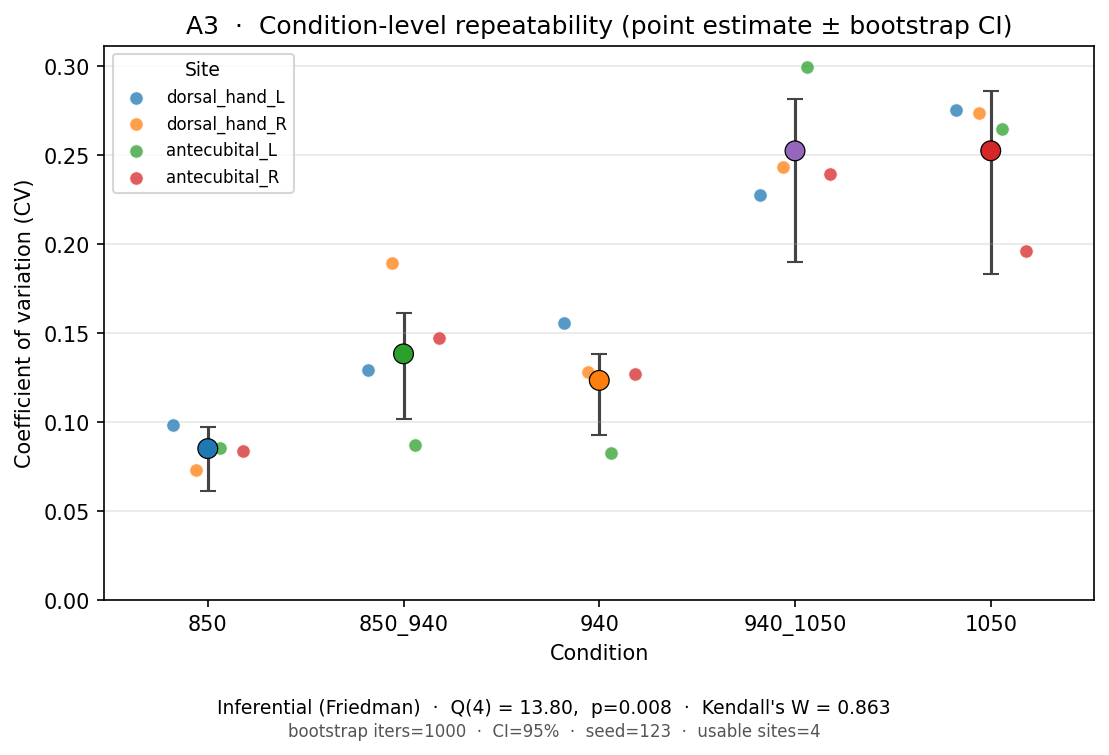
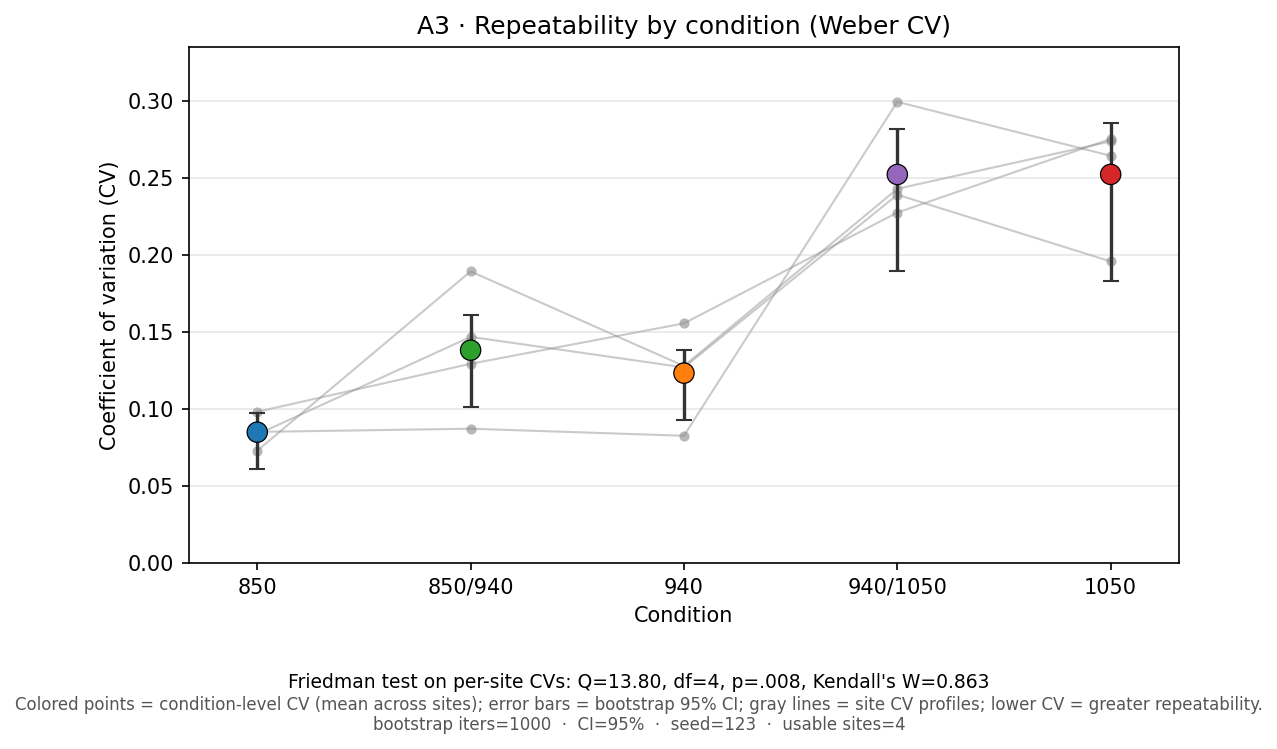
Refactor A3 plotting logic: enhance formatting functions, improve error handling, and update visualization details for clarity

diff --git a/plots/a3.py b/plots/a3.py
@@ -8,20 +8,18 @@ import numpy as np
 import pandas as pd
 
 from config import (
+    CONDITION_DISPLAY_LABELS,
     CONDITION_ORDER,
     CONDITION_PALETTE,
     DPI,
     FIGSIZE,
     SITE_ORDER,
-    SITE_PALETTE,
     fmt_num,
-    fmt_p,
 )
 from loader import bootstrap_cis_df, cv_matrix_df
 
 
 _TOL = 1e-9
-_SITE_X_OFFSETS = np.linspace(-0.18, 0.18, len(SITE_ORDER))
 
 
 def _as_float(value: object, label: str) -> float:
@@ -30,20 +28,47 @@ def _as_float(value: object, label: str) -> float:
     return float(value)
 
 
+def _fmt_trimmed(x: float, digits: int = 3) -> str:
+    text = f"{float(x):.{digits}f}"
+    if text.startswith("0."):
+        return text[1:]
+    if text.startswith("-0."):
+        return "-" + text[2:]
+    return text
+
+
+def _fmt_p_compact(p: float) -> str:
+    if p is None:
+        return "p=n/a"
+    if p < 0.001:
+        return "p<.001"
+    return f"p={_fmt_trimmed(p)}"
+
+
 def _stat_line(a3: dict) -> str:
     mode = a3["a3_mode"]
     if mode == "inferential":
         fr = a3["friedman"]
         return (
-            f"Inferential (Friedman)  ·  Q({fr['dof']:g}) = "
-            f"{fmt_num(fr['Q'], 2)},  {fmt_p(fr['p'])}  ·  "
-            f"Kendall's W = {fmt_num(fr['kendalls_w'], 3)}"
+            "Friedman test on per-site CVs: "
+            f"Q={fmt_num(fr['Q'], 2)}, df={fr['dof']:g}, "
+            f"{_fmt_p_compact(fr['p'])}, Kendall's W={fmt_num(fr['kendalls_w'], 3)}"
         )
     reason = a3.get("fallback_reason") or "unspecified"
     return f"Descriptive (fallback: {reason})"
 
 
 def _provenance_line(a3: dict) -> str:
+    ci_level = int(a3["bootstrap"]["ci"] * 100)
+    return (
+        "Colored points = condition-level CV (mean across sites); "
+        f"error bars = bootstrap {ci_level}% CI; "
+        "gray lines = site CV profiles; "
+        "lower CV = greater repeatability."
+    )
+
+
+def _metadata_line(a3: dict) -> str:
     bs = a3["bootstrap"]
     bits = [
         f"bootstrap iters={bs['iterations']}",
@@ -62,16 +87,97 @@ def _per_condition_cv_df(per_condition_cv: list) -> pd.DataFrame:
     return df.reindex(CONDITION_ORDER)
 
 
+def _condition_labels() -> list[str]:
+    missing = [c for c in CONDITION_ORDER if c not in CONDITION_DISPLAY_LABELS]
+    if missing:
+        raise ValueError(f"Missing A3 condition display labels: {missing}")
+    return [CONDITION_DISPLAY_LABELS[c] for c in CONDITION_ORDER]
+
+
+def _require_columns(df: pd.DataFrame, columns: list[str], source: str) -> None:
+    missing = [c for c in columns if c not in df.columns]
+    if missing:
+        raise ValueError(f"{source} missing required column(s): {missing}")
+
+
+def _require_complete_inferential_inputs(
+    point_df: pd.DataFrame,
+    ci_df: pd.DataFrame,
+    cv_matrix: pd.DataFrame,
+) -> None:
+    expected_index = list(CONDITION_ORDER)
+    if list(point_df.index) != expected_index:
+        raise ValueError(
+            "A3 per_condition_cv is not aligned to CONDITION_ORDER: "
+            f"{list(point_df.index)}"
+        )
+    if list(ci_df.index) != expected_index:
+        raise ValueError(
+            "A3 bootstrap_cis is not aligned to CONDITION_ORDER: "
+            f"{list(ci_df.index)}"
+        )
+    if list(cv_matrix.columns) != expected_index:
+        raise ValueError(
+            "A3 cv_matrix columns are not aligned to CONDITION_ORDER: "
+            f"{list(cv_matrix.columns)}"
+        )
+    if list(cv_matrix.index) != list(SITE_ORDER):
+        raise ValueError(
+            "A3 cv_matrix rows are not aligned to SITE_ORDER: "
+            f"{list(cv_matrix.index)}"
+        )
+
+    summary_values = point_df["cv_point_estimate"].to_numpy(dtype=float)
+    ci_values = ci_df[["cv_point_estimate", "ci_low", "ci_high"]].to_numpy(dtype=float)
+    site_values = cv_matrix.to_numpy(dtype=float)
+    if not np.isfinite(summary_values).all():
+        raise ValueError("A3 inferential summary CV point estimates must be finite")
+    if not np.isfinite(ci_values).all():
+        raise ValueError("A3 inferential bootstrap CI values must be finite")
+    if not np.isfinite(site_values).all():
+        raise ValueError("A3 inferential cv_matrix values must be finite")
+
+
+def _point_ci_guard(point_df: pd.DataFrame, ci_df: pd.DataFrame) -> None:
+    for cond in CONDITION_ORDER:
+        summary_point = _as_float(
+            point_df.loc[cond, "cv_point_estimate"],
+            f"{cond} per_condition_cv CV point estimate",
+        )
+        ci_point = _as_float(
+            ci_df.loc[cond, "cv_point_estimate"],
+            f"{cond} bootstrap_cis CV point estimate",
+        )
+        ci_low = _as_float(ci_df.loc[cond, "ci_low"], f"{cond} bootstrap CI low")
+        ci_high = _as_float(ci_df.loc[cond, "ci_high"], f"{cond} bootstrap CI high")
+
+        values = np.array([summary_point, ci_point, ci_low, ci_high], dtype=float)
+        if not np.isfinite(values).all():
+            raise ValueError(f"A3 non-finite point/CI value for {cond}")
+        if abs(summary_point - ci_point) > _TOL:
+            raise ValueError(
+                f"A3 point estimate mismatch for {cond}: "
+                f"per_condition_cv={summary_point} bootstrap_cis={ci_point}"
+            )
+        if not ci_low <= summary_point <= ci_high:
+            raise ValueError(
+                f"A3 CI bounds do not contain point estimate for {cond}: "
+                f"ci_low={ci_low} point={summary_point} ci_high={ci_high}"
+            )
+
+
 def _numerical_guard(cv_matrix: pd.DataFrame, point_df: pd.DataFrame) -> None:
     for cond in CONDITION_ORDER:
         stable_values = cv_matrix[cond].dropna().to_numpy(dtype=float)
-        recomputed = float(np.mean(stable_values)) if stable_values.size else float("nan")
+        if not stable_values.size:
+            raise ValueError(f"A3 cv_matrix has no finite values for {cond}")
+        recomputed = float(np.mean(stable_values))
         summary_point = _as_float(
             point_df.loc[cond, "cv_point_estimate"],
             f"{cond} CV point estimate",
         )
-        if np.isnan(recomputed) and np.isnan(summary_point):
-            continue
+        if not np.isfinite(recomputed) or not np.isfinite(summary_point):
+            raise ValueError(f"A3 non-finite numerical guard value for {cond}")
         if abs(recomputed - summary_point) > _TOL:
             raise ValueError(
                 f"A3 spot check failed for {cond}: "
@@ -79,10 +185,46 @@ def _numerical_guard(cv_matrix: pd.DataFrame, point_df: pd.DataFrame) -> None:
             )
 
 
+def _a3_ylim(
+    point_df: pd.DataFrame,
+    ci_df: pd.DataFrame,
+    cv_matrix: pd.DataFrame,
+) -> tuple[float, float]:
+    values = np.concatenate(
+        [
+            point_df["cv_point_estimate"].to_numpy(dtype=float),
+            ci_df["ci_high"].to_numpy(dtype=float),
+            cv_matrix.to_numpy(dtype=float).ravel(),
+        ]
+    )
+    finite_values = values[np.isfinite(values)]
+    if not finite_values.size:
+        raise ValueError("A3 has no finite plotted values for y-axis scaling")
+    upper = float(np.max(finite_values))
+    return 0.0, upper * 1.12
+
+
 def render_a3_condition_cv(a3: dict, out_path: Path) -> None:
-    ci_df = bootstrap_cis_df(a3["bootstrap_cis"])
-    point_df = _per_condition_cv_df(a3["per_condition_cv"])
-    cv_matrix = cv_matrix_df(a3["cv_matrix"])
+    xlabels = _condition_labels()
+    ci_df = bootstrap_cis_df(a3["bootstrap_cis"]).reindex(CONDITION_ORDER)
+    point_df = _per_condition_cv_df(a3["per_condition_cv"]).reindex(CONDITION_ORDER)
+    cv_matrix = cv_matrix_df(a3["cv_matrix"]).reindex(
+        index=SITE_ORDER,
+        columns=CONDITION_ORDER,
+    )
+    _require_columns(
+        point_df,
+        ["cv_point_estimate"],
+        "a3_results.json::per_condition_cv",
+    )
+    _require_columns(
+        ci_df,
+        ["cv_point_estimate", "ci_low", "ci_high"],
+        "a3_results.json::bootstrap_cis",
+    )
+    if a3["a3_mode"] == "inferential":
+        _require_complete_inferential_inputs(point_df, ci_df, cv_matrix)
+    _point_ci_guard(point_df, ci_df)
     _numerical_guard(cv_matrix, point_df)
 
     fig, ax = plt.subplots(figsize=FIGSIZE)
@@ -92,46 +234,48 @@ def render_a3_condition_cv(a3: dict, out_path: Path) -> None:
     hi = ci_df["ci_high"].to_numpy(dtype=float) - cv
     colors = [CONDITION_PALETTE[c] for c in CONDITION_ORDER]
 
-    ax.errorbar(
-        x, cv, yerr=[lo, hi], fmt="none",
-        ecolor="#444444", elinewidth=1.5, capsize=4, zorder=1,
-    )
-
-    legend_handles = []
-    for offset, site in zip(_SITE_X_OFFSETS, SITE_ORDER):
+    for site in SITE_ORDER:
         vals = cv_matrix.loc[site].to_numpy(dtype=float)
         mask = ~np.isnan(vals)
         if not mask.any():
             continue
-        handle = ax.scatter(
-            x[mask] + offset,
+        ax.plot(
+            x[mask],
             vals[mask],
-            color=SITE_PALETTE[site],
-            s=42,
-            alpha=0.75,
-            zorder=2,
-            edgecolor="white",
-            linewidth=0.5,
-            label=site,
+            color="#8a8a8a",
+            linewidth=1.0,
+            alpha=0.45,
+            zorder=1,
         )
-        legend_handles.append(handle)
+        ax.scatter(
+            x[mask],
+            vals[mask],
+            color="#8a8a8a",
+            s=24,
+            alpha=0.6,
+            linewidth=0,
+            zorder=2,
+        )
 
-    ax.scatter(x, cv, c=colors, s=90, zorder=3, edgecolor="black", linewidth=0.6)
+    ax.errorbar(
+        x, cv, yerr=[lo, hi], fmt="none",
+        ecolor="#333333", elinewidth=1.6, capsize=4, zorder=3,
+    )
+    ax.scatter(x, cv, c=colors, s=95, zorder=4, edgecolor="black", linewidth=0.6)
 
     ax.set_xticks(x)
-    ax.set_xticklabels(CONDITION_ORDER)
+    ax.set_xticklabels(xlabels)
     ax.set_xlabel("Condition")
     ax.set_ylabel("Coefficient of variation (CV)")
-    ax.set_title("A3  ·  Condition-level repeatability (point estimate ± bootstrap CI)")
+    ax.set_title("A3 · Repeatability by condition (Weber CV)")
+    ax.set_ylim(*_a3_ylim(point_df, ci_df, cv_matrix))
     ax.grid(True, alpha=0.3, axis="y")
     ax.margins(x=0.08)
-    ax.set_ylim(bottom=0)
-    if legend_handles:
-        ax.legend(title="Site", loc="best", fontsize=8, title_fontsize=9)
 
-    fig.text(0.5, 0.035, _stat_line(a3), ha="center", fontsize=9)
-    fig.text(0.5, 0.005, _provenance_line(a3), ha="center", fontsize=8, color="#555555")
+    fig.text(0.5, 0.070, _stat_line(a3), ha="center", fontsize=9)
+    fig.text(0.5, 0.040, _provenance_line(a3), ha="center", fontsize=8, color="#555555")
+    fig.text(0.5, 0.014, _metadata_line(a3), ha="center", fontsize=8, color="#555555")
 
-    fig.tight_layout(rect=(0, 0.07, 1, 1))
+    fig.tight_layout(rect=(0, 0.12, 1, 1))
     fig.savefig(out_path, dpi=DPI, bbox_inches="tight")
     plt.close(fig)
